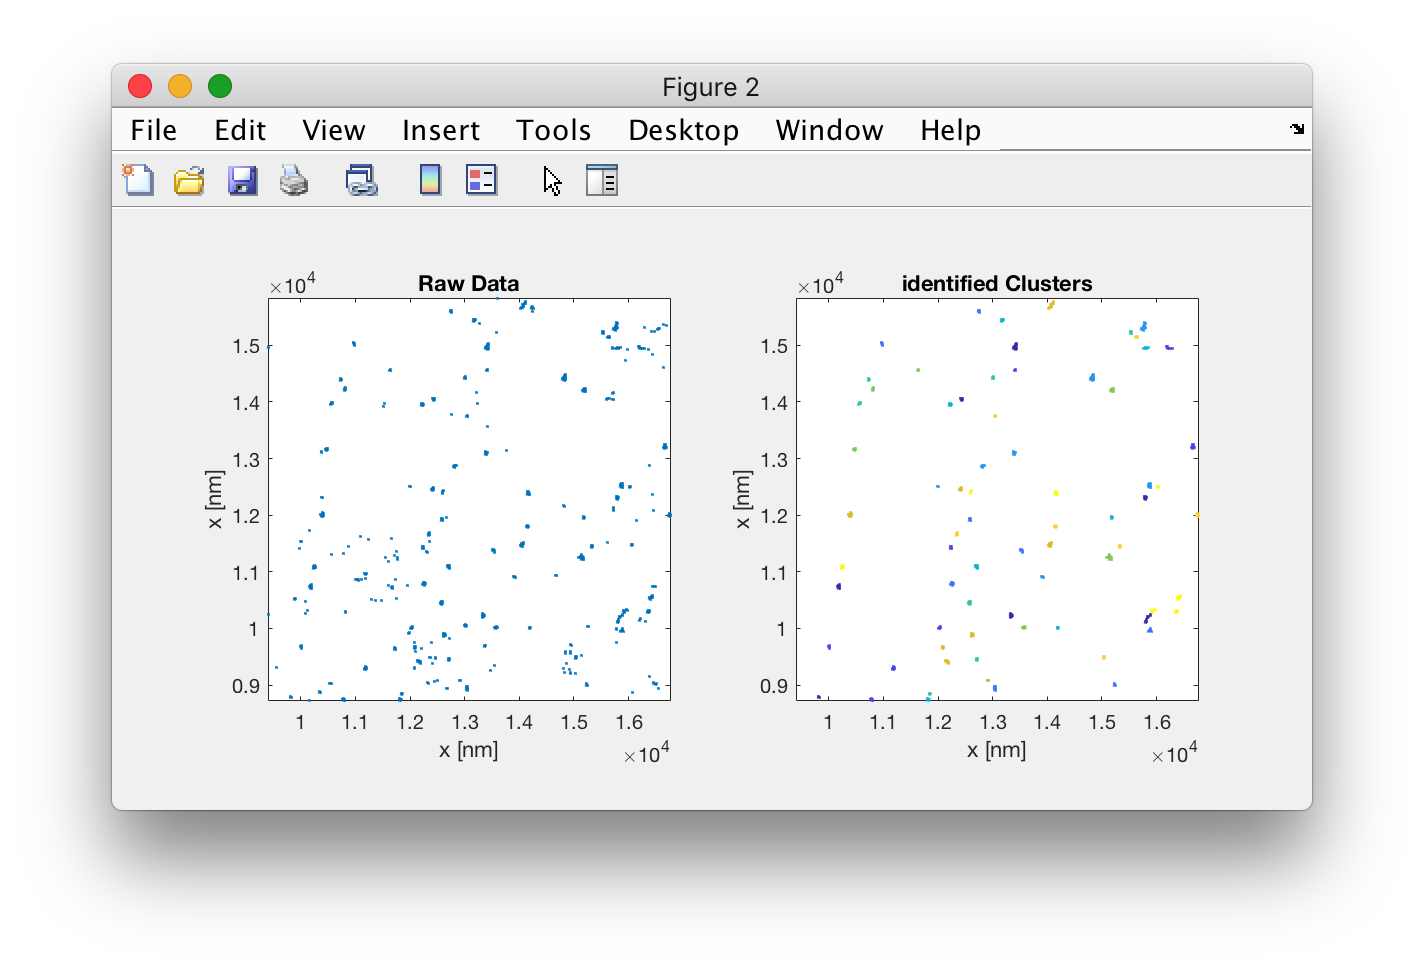
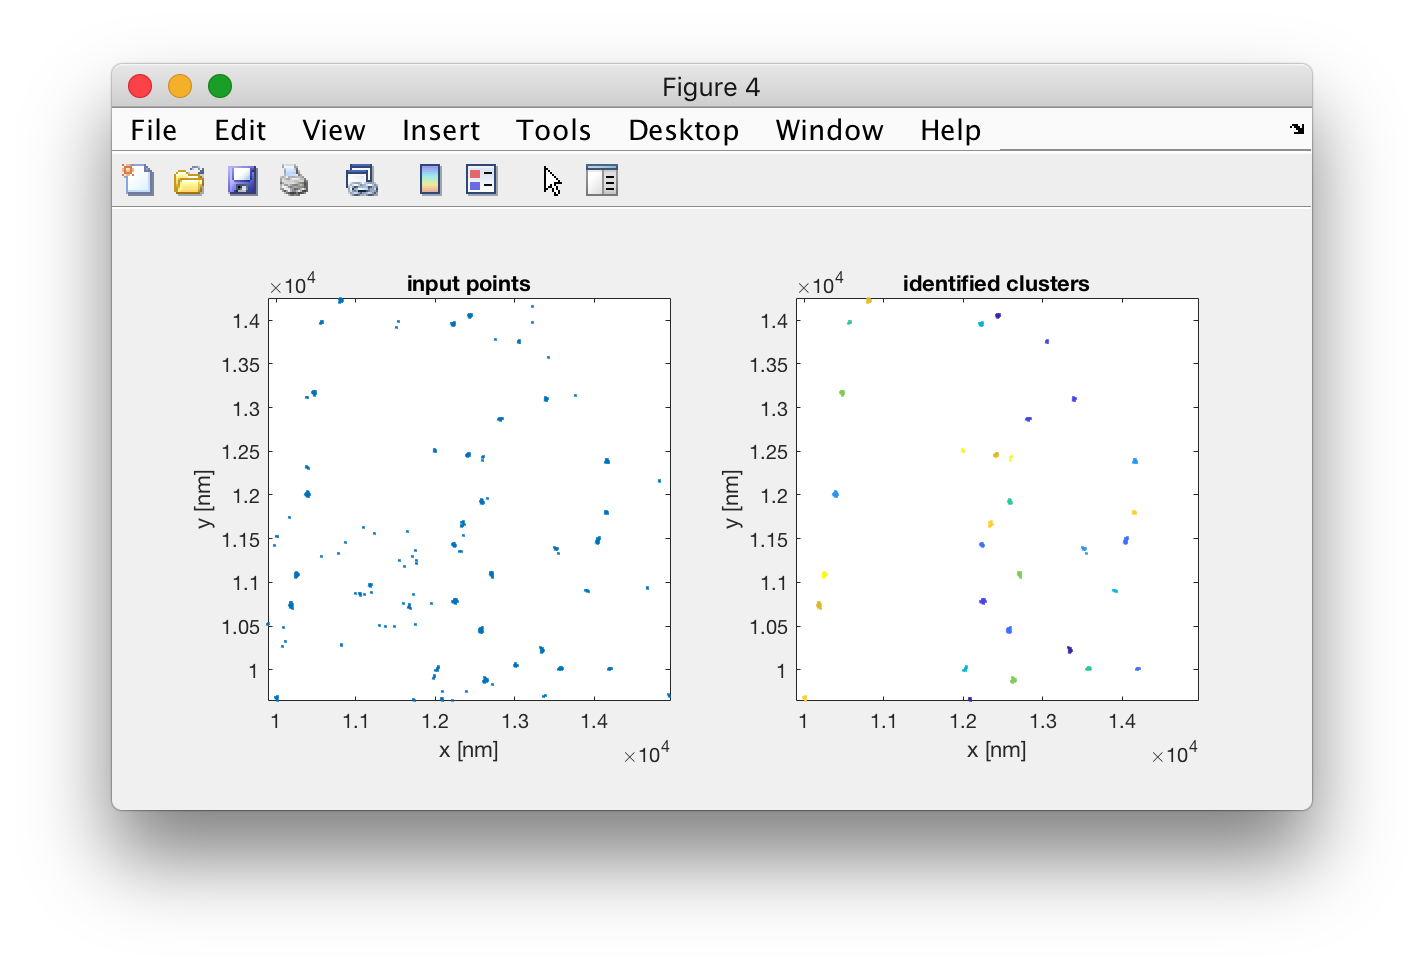
update figures

diff --git a/3_clustering/DBSCAN_with_ROI.m b/3_clustering/DBSCAN_with_ROI.m
@@ -76,7 +76,7 @@ subset(:,end+1) = class2(coreBorder);
 figure('Position',[100 500 600 300])
 subplot(1,2,1)
 scatter(locs_ROI(:,xCol),locs_ROI(:,yCol),1);
-title('Raw Data');xlabel('x [nm]');ylabel('x [nm]');
+title('input points');xlabel('x [nm]');ylabel('y [nm]');
 axis square
 axis([min(locs_ROI(:,xCol)) max(locs_ROI(:,xCol)) min(locs_ROI(:,yCol)) max(locs_ROI(:,yCol))])
 box on
@@ -84,7 +84,7 @@ box on
 
 subplot(1,2,2)
 scatter(subset(:,xCol),subset(:,yCol),1,mod(subset(:,end),10))
-title('identified Clusters');xlabel('x [nm]');ylabel('x [nm]');
+title('identified clusters');xlabel('x [nm]');ylabel('y [nm]');
 axis square
 axis([min(locs_ROI(:,xCol)) max(locs_ROI(:,xCol)) min(locs_ROI(:,yCol)) max(locs_ROI(:,yCol))])
 box on
